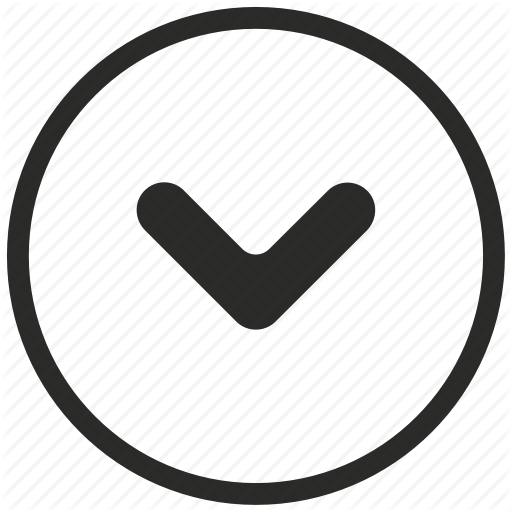
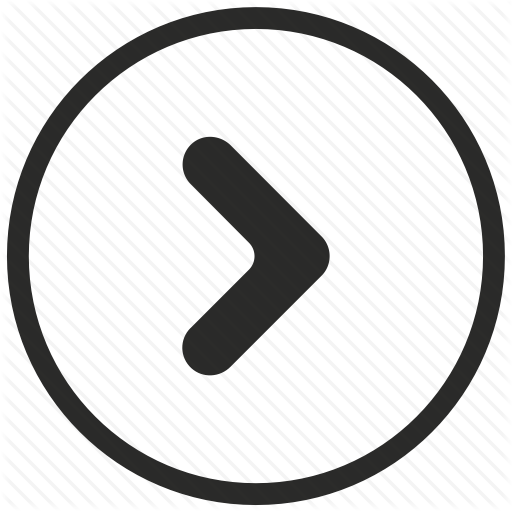
add toggle effect

Changed region(s): [[0.25, 0.25, 0.75, 0.75]]

diff --git a/index.html b/index.html
@@ -403,7 +403,7 @@
                         <div style="display: inline-block">
                       <span style="font-size:24px" data-tooltip="Log-Structured Hash-Table" data-tooltip-position="bottom" >LSH-Table</span>
                         </div>
-                        <div class="trigger" style="cursor: pointer; width:25px;display: inline-block" data-toggle="collapse" href="#lsh-setting" role="button" aria-expanded="false">
+                        <div class="trigger rotate" style="cursor: pointer; width:25px;display: inline-block" data-toggle="collapse" href="#lsh-setting" role="button" aria-expanded="false">
                             <div id="lsh-trigger" onclick="">
 
                                 <img class="img-responsive img-centered" style="width:25px" src="./images/arrow.png"/>

diff --git a/css/lsm_button.css b/css/lsm_button.css
@@ -147,6 +147,17 @@
     background-color: #ecf0f1;
 }
 
+.rotate {
+    -moz-transition: all .5s linear;
+    -webkit-transition: all .5s linear;
+    transition: all .5s linear;
+}
+.rotate.down {
+    -moz-transform:rotate(90deg);
+    -webkit-transform:rotate(90deg);
+    transform:rotate(90deg);
+}
+
 /*.button:hover {
    border: 2px solid #000000;
    text-shadow: #000000 0 1px 0;

diff --git a/js/lsm_bush_in_action.js b/js/lsm_bush_in_action.js
@@ -1224,6 +1224,9 @@ function init(){
 	document.getElementById("Leveling").style.fontSize='16px';
 	//document.getElementById("Optimal-FPR").style.fontWeight='bold';
 	//document.getElementById("Optimal-FPR").style.fontSize='16px';
+	$(".rotate").click(function () {
+		$(this).toggleClass("down");
+	})
 
 	initScenario1();
 	initScenario2();

diff --git a/js/autoRerun.js b/js/autoRerun.js
@@ -1,5 +1,6 @@
 var timer=null;
 
+
 function update_lsm_tree(id, lsm_tree_type, lsm_tree_L, lsm_tree_T, lsm_tree_mbuffer, N, E, obsolete_coefficient){
   if(id == 'lsm_tree_L' || id == 'obsolete_coefficient' || id == 'lsm_tree_Z'){
     var result = getLSMTreeT(lsm_tree_type);
